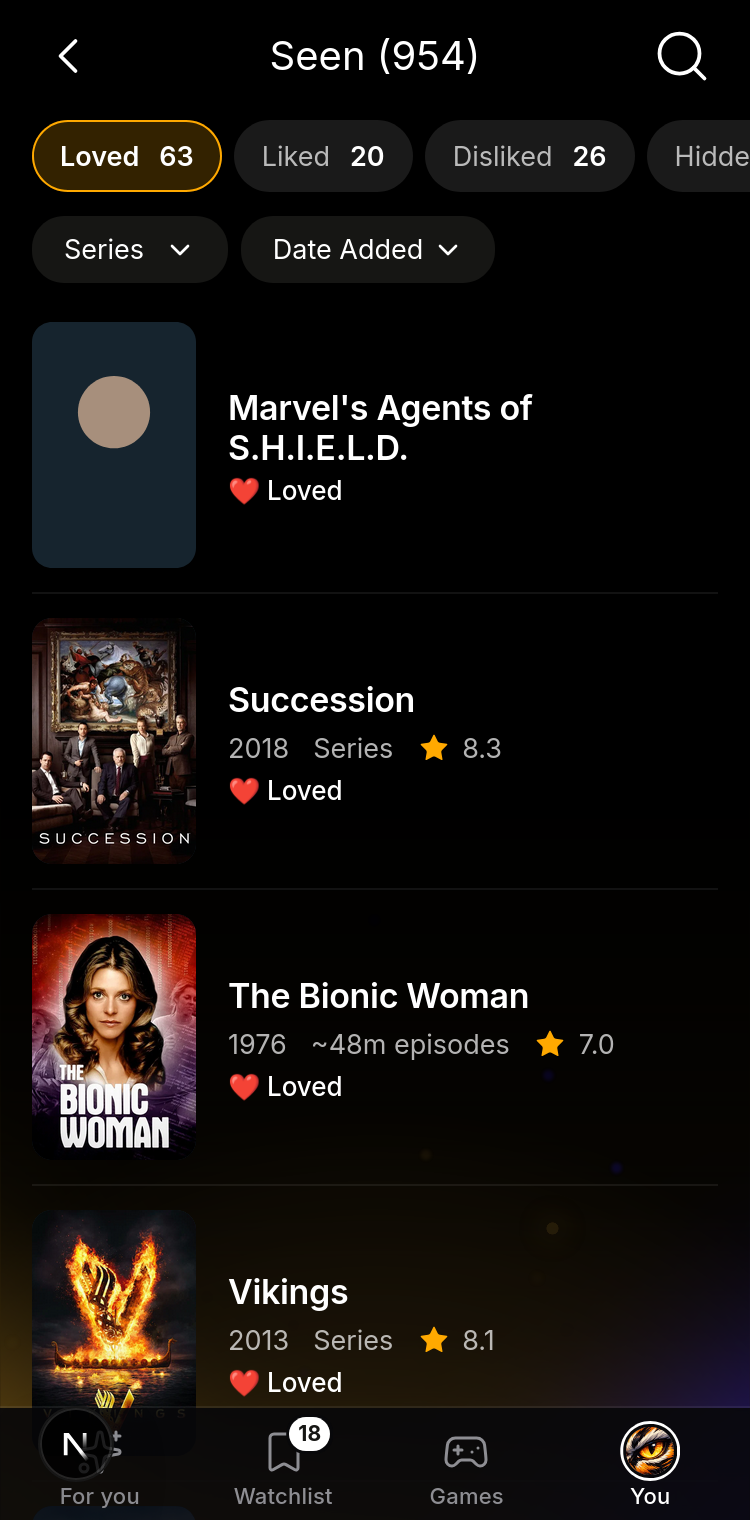
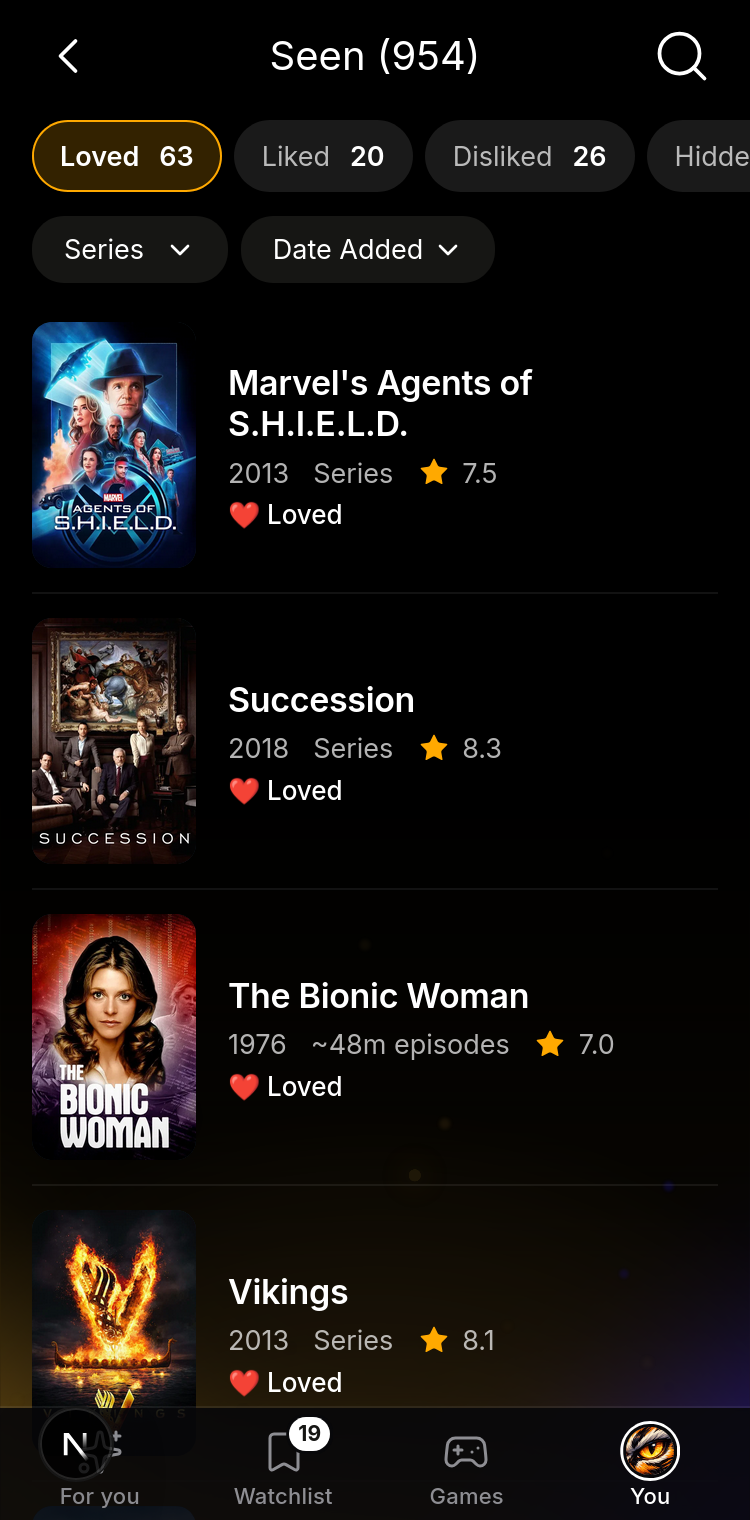
S1: the ratings route reads past PostgREST's 1,000-row answer (#359)
One .in() over every rated and hidden id matched more than 1,000 titles
rows on a heavy account (1,114 ids, 1,261 rows), so 261 posters were
silently dropped; the feedback read had the same cap, so past 1,000
ratings the oldest would vanish. The ratings and hidden lists are now read
a page at a time on a stable order, and the titles in chunks of 300 ids
per type. Found by Alon on #359.

Changed region(s): [[0.0307, 0.1855, 0.276, 0.3711], [0.3067, 0.2474, 0.7053, 0.3711]]

diff --git a/src/app/api/recommendations/ratings/route.ts b/src/app/api/recommendations/ratings/route.ts
@@ -54,6 +54,22 @@ export interface RemovedItem extends TitleFacts {
   poster_url: string | null
 }
 
+// PostgREST answers at most 1,000 rows a request: a list longer than that is read a page at a time, and the titles
+// in chunks (#359: 1,114 ids matched 1,261 rows, and 261 posters were silently dropped).
+const PAGE = 1000
+const ID_CHUNK = 300
+
+/** Every row of a query, a page at a time. `page(from, to)` is the query with `.range(from, to)` on a stable order. */
+async function readAll<T>(page: (from: number, to: number) => PromiseLike<{ data: T[] | null; error: unknown }>): Promise<T[]> {
+  const out: T[] = []
+  for (let from = 0; ; from += PAGE) {
+    const { data, error } = await page(from, from + PAGE - 1)
+    if (error) throw error
+    out.push(...(data ?? []))
+    if (!data || data.length < PAGE) return out
+  }
+}
+
 /** The feed card's length line (toUIRecommendations in src/lib/rec-page.ts), for a Seen row. */
 function lengthLine(type: MediaType, runtime: number | null): string {
   if (type === 'movie') return runtime ? `${Math.floor(runtime / 60)}h ${runtime % 60}m` : 'Film'
@@ -83,20 +99,30 @@ export async function GET() {
     return NextResponse.json({ error: 'Unauthorized' }, { status: 401 })
   }
 
-  const [{ data: feedback, error: fErr }, { data: removedRows, error: rErr }] = await Promise.all([
-    supabase
-      .from('recommendation_feedback')
-      .select('recommendation_id, title, rating, created_at')
-      .eq('user_id', user.id)
-      .order('created_at', { ascending: false }),
-    supabase
-      .from('removed_titles')
-      .select('tmdb_id, media_type, title, removed_at')
-      .eq('user_id', user.id)
-      .order('removed_at', { ascending: false }),
-  ])
-
-  if (fErr || rErr) {
+  let feedback: { recommendation_id: string; title: string | null; rating: string; created_at: string }[]
+  let removedRows: { tmdb_id: string; media_type: string; title: string | null; removed_at: string }[]
+  try {
+    ;[feedback, removedRows] = await Promise.all([
+      readAll((from, to) =>
+        supabase
+          .from('recommendation_feedback')
+          .select('recommendation_id, title, rating, created_at')
+          .eq('user_id', user.id)
+          .order('created_at', { ascending: false })
+          .order('id')
+          .range(from, to),
+      ),
+      readAll((from, to) =>
+        supabase
+          .from('removed_titles')
+          .select('tmdb_id, media_type, title, removed_at')
+          .eq('user_id', user.id)
+          .order('removed_at', { ascending: false })
+          .order('id')
+          .range(from, to),
+      ),
+    ])
+  } catch {
     return NextResponse.json({ error: 'Failed to load ratings' }, { status: 500 })
   }
 
@@ -115,25 +141,36 @@ export async function GET() {
     const { media_type, tmdb_id } = parseRecId(key)
     dedupedFeedback.push({ key, title: row.title ?? null, rating, created_at: row.created_at, tmdb_id, media_type })
   }
-  counts.removed = removedRows?.length ?? 0
+  counts.removed = removedRows.length
 
   // Resolve posters for the tile backgrounds. poster_path is already cached on
   // the titles row (no external TMDB call); one batched lookup by tmdb_id.
-  const tmdbIds = [
-    ...dedupedFeedback.map((r) => r.tmdb_id),
-    ...(removedRows ?? []).map((r) => r.tmdb_id),
-  ]
+  // Ids by type: a movie and a series can share a numeric id, so asking per type keeps each answer to the rows we want.
+  const idsOf: Record<MediaType, Set<string>> = { movie: new Set(), tv: new Set() }
+  for (const r of dedupedFeedback) if (r.media_type) idsOf[r.media_type].add(r.tmdb_id)
+  for (const r of removedRows) idsOf[r.media_type as MediaType]?.add(r.tmdb_id)
   // titles is uniquely keyed on (tmdb_id, type) — a movie and a TV show can
   // share a numeric tmdb_id (migration 0008) — so key posters by the composite
   // to avoid attaching the wrong artwork. Legacy bare ids (media_type null) are
   // mock ids absent from titles, so they resolve to no poster.
   const posterByKey = new Map<string, string | null>()
   const factsByKey = new Map<string, TitleFacts>()
-  if (tmdbIds.length > 0) {
-    const { data: titleRows } = await supabase
-      .from('titles')
-      .select('tmdb_id, type, poster_path, release_year, runtime_minutes, tmdb_rating')
-      .in('tmdb_id', [...new Set(tmdbIds)])
+  const chunks: { type: MediaType; ids: string[] }[] = []
+  for (const type of ['movie', 'tv'] as const) {
+    const ids = [...idsOf[type]]
+    for (let i = 0; i < ids.length; i += ID_CHUNK) chunks.push({ type, ids: ids.slice(i, i + ID_CHUNK) })
+  }
+  const answers = await Promise.all(
+    chunks.map(({ type, ids }) =>
+      supabase
+        .from('titles')
+        .select('tmdb_id, type, poster_path, release_year, runtime_minutes, tmdb_rating')
+        .eq('type', type)
+        .in('tmdb_id', ids),
+    ),
+  )
+  // A chunk that fails leaves its rows without a poster, as before; the list itself still loads.
+  for (const { data: titleRows } of answers) {
     for (const t of titleRows ?? []) {
       const key = `${t.tmdb_id}:${t.type}`
       posterByKey.set(key, tmdbPosterUrl(t.poster_path as string | null))
@@ -161,7 +198,7 @@ export async function GET() {
     ...factsFor(r.tmdb_id, r.media_type),
   }))
 
-  const removed: RemovedItem[] = (removedRows ?? []).map((r) => ({
+  const removed: RemovedItem[] = removedRows.map((r) => ({
     title: r.title ?? null,
     tmdb_id: r.tmdb_id,
     media_type: r.media_type as MediaType,

diff --git a/tests/unit/ratings-route.test.ts b/tests/unit/ratings-route.test.ts
@@ -1,0 +1,69 @@
+// @vitest-environment node
+import { describe, it, expect, vi } from 'vitest'
+
+// GET /api/recommendations/ratings reads past PostgREST's 1,000-row answer (#359): the ratings a page at a time, and
+// the titles in chunks per type, so a heavy account loses neither old ratings nor posters.
+
+const CAP = 1000
+const db = vi.hoisted(() => ({
+  feedback: [] as { recommendation_id: string; title: string; rating: string; created_at: string }[],
+  removed: [] as { tmdb_id: string; media_type: string; title: string; removed_at: string }[],
+  titles: [] as { tmdb_id: string; type: string; poster_path: string; release_year: number; runtime_minutes: number; tmdb_rating: number }[],
+  titleRequests: 0,
+}))
+
+function query(table: string) {
+  const f: { eq: [string, unknown][]; in?: string[]; range?: [number, number] } = { eq: [] }
+  const q = {
+    select: () => q,
+    eq: (k: string, v: unknown) => (f.eq.push([k, v]), q),
+    in: (_k: string, ids: string[]) => ((f.in = ids), q),
+    order: () => q,
+    range: (a: number, b: number) => ((f.range = [a, b]), q),
+    then: (done: (v: unknown) => unknown) => {
+      let rows: unknown[]
+      if (table === 'titles') {
+        db.titleRequests++
+        const type = f.eq.find(([k]) => k === 'type')?.[1]
+        rows = db.titles.filter((t) => f.in!.includes(t.tmdb_id) && (!type || t.type === type))
+      } else {
+        rows = table === 'recommendation_feedback' ? db.feedback : db.removed
+        if (f.range) rows = rows.slice(f.range[0], f.range[1] + 1)
+      }
+      // PostgREST's cap: never more than 1,000 rows in one answer.
+      return Promise.resolve({ data: rows.slice(0, CAP), error: null }).then(done)
+    },
+  }
+  return q
+}
+
+vi.mock('@/lib/supabase/server', () => ({ createClient: async () => ({ from: query }) }))
+vi.mock('@/lib/supabase/auth-user', () => ({ getAuthUser: async () => ({ id: 'u1' }) }))
+
+import { GET } from '@/app/api/recommendations/ratings/route'
+import type { RatingsSummary } from '@/app/api/recommendations/ratings/route'
+
+describe('GET /api/recommendations/ratings past 1,000 rows', () => {
+  it('returns every rating and finds every poster', async () => {
+    const at = (i: number) => new Date(Date.UTC(2026, 0, 1) + i * 60_000).toISOString()
+    db.feedback = Array.from({ length: 1200 }, (_, i) => ({
+      recommendation_id: `movie:${i}`, title: `Film ${i}`, rating: 'loved', created_at: at(1200 - i),
+    }))
+    db.removed = Array.from({ length: 50 }, (_, i) => ({ tmdb_id: String(5000 + i), media_type: 'tv', title: `Show ${i}`, removed_at: at(i) }))
+    // Every id is also a series with the same number, as in the real catalogue: asking per type keeps them out.
+    db.titles = [
+      ...db.feedback.map((_, i) => ({ tmdb_id: String(i), type: 'movie', poster_path: `/m${i}.jpg`, release_year: 2000, runtime_minutes: 100, tmdb_rating: 7 })),
+      ...db.feedback.map((_, i) => ({ tmdb_id: String(i), type: 'tv', poster_path: `/t${i}.jpg`, release_year: 2001, runtime_minutes: 40, tmdb_rating: 8 })),
+      ...db.removed.map((r) => ({ tmdb_id: r.tmdb_id, type: 'tv', poster_path: `/r${r.tmdb_id}.jpg`, release_year: 2010, runtime_minutes: 45, tmdb_rating: 7.5 })),
+    ]
+    const res = await GET()
+    const body = (await res.json()) as RatingsSummary
+    expect(body.items).toHaveLength(1200)
+    expect(body.counts.loved).toBe(1200)
+    expect(body.items.every((i) => i.poster_url?.includes('/m') && i.year === 2000 && i.meta === '1h 40m')).toBe(true)
+    expect(body.removed).toHaveLength(50)
+    expect(body.removed.every((r) => r.poster_url?.includes('/r') && r.meta === '~45m episodes')).toBe(true)
+    // 1,200 movie ids in chunks of 300, and one chunk for the 50 series.
+    expect(db.titleRequests).toBe(5)
+  })
+})

diff --git a/docs/INTEGRATION.md b/docs/INTEGRATION.md
@@ -12,7 +12,7 @@ The team approved the v2 plan: the new formula, the scales on every title, the n
 
 Spec `docs/plan/v3/PLAN.md`; status in GitHub Issues (label `v3`) and on the [WTW v3 project](https://github.com/users/BloodyDeathRoll/projects/3).
 
-- **S1 · Seen in Watchlist rows (#359, Shahar, 2026-11-19), behind `SEEN_V3` (client-side, redeploy to change).** `SeenView` (`src/modules/session/ratings/`) replaces today's Ratings screen when the flag is on (`RatingsView` switches; off = today's, unchanged): "Seen (N)" (every rated title), chips Loved · Liked · Disliked · Hidden from For you with no All (opens on Loved; counts follow the type filter), today's two dropdowns under them, the Watchlist's rows (`PosterTile`, `MetaRow` exported from `RecommendationsView`) with the reaction where the match is, 20 rows a page, and the two empty states. `GET /api/recommendations/ratings` adds `year`, `meta`, `star` from `titles`. Open: about a fifth of a heavy account's Seen isn't in `titles` (rated in the games or onboarding), so those rows have no poster or year line; options on #359. Next: S2 icons on the row, S3 the card page, S4 Restore.
+- **S1 · Seen in Watchlist rows (#359, Shahar, 2026-11-19), behind `SEEN_V3` (client-side, redeploy to change).** `SeenView` (`src/modules/session/ratings/`) replaces today's Ratings screen when the flag is on (`RatingsView` switches; off = today's, unchanged): "Seen (N)" (every rated title), chips Loved · Liked · Disliked · Hidden from For you with no All (opens on Loved; counts follow the type filter), today's two dropdowns under them, the Watchlist's rows (`PosterTile`, `MetaRow` exported from `RecommendationsView`) with the reaction where the match is, 20 rows a page, and the two empty states. `GET /api/recommendations/ratings` adds `year`, `meta`, `star` from `titles`, and now reads past PostgREST's 1,000-row answer: the ratings and hidden lists a page at a time, the titles in chunks of 300 per type (Alon found it on #359: a heavy account lost 261 posters, and anyone past 1,000 ratings would lose their oldest). Next: S2 icons on the row, S3 the card page, S4 Restore.
 
 ### v2 plan
 
